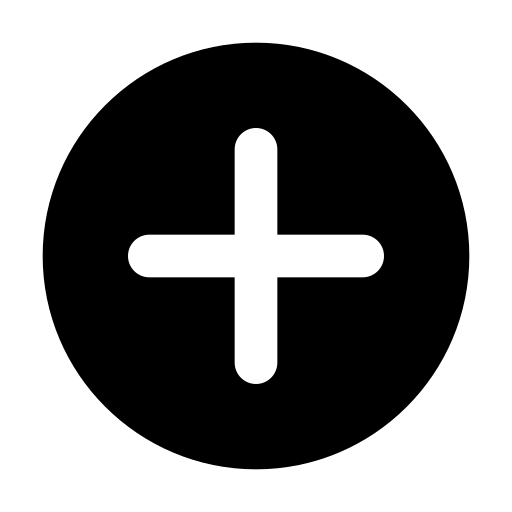
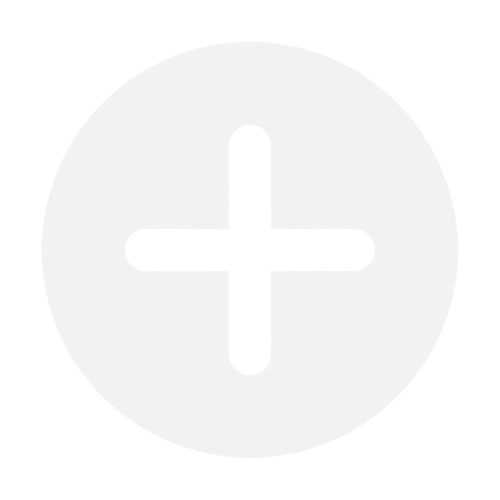
Chnaged theyellow design to black

diff --git a/app/static/css/index.css b/app/static/css/index.css
@@ -16,8 +16,8 @@ header{
     position: sticky;
     z-index: 10;
     top: 0;
-    background-color: #ffd903;
-    color: white;
+    background-color: #141414;
+    color: #ababab;
     box-shadow: 0 6px 12px rgba(0, 0, 0, 0.1);
     height: auto;
     width: 100%;
@@ -26,7 +26,7 @@ header{
 
 /* Hero section */
 .hero {
-    height: 200px;
+    height: 20rem;
     display: flex;
     flex-direction: row;
     align-items: center;
@@ -35,7 +35,7 @@ header{
     padding: 35px 0; 
     margin-bottom: 30px;
     margin-top: 30px;
-    background-color: #3f3f3f;
+    background-color: #141414;
     font-family: 'Gill Sans', 'Gill Sans MT', Calibri, 'Trebuchet MS', sans-serif;
     overflow: hidden; /* Prevent overflow of child elements */
 }
@@ -69,8 +69,8 @@ header{
 
 
 body {
-    background-color: white;
-    color: #3f3f3f;
+    background-color: #141414;
+    color: #ababab;
     line-height: 1.6;
     margin: 0;
     display: flex;
@@ -98,8 +98,8 @@ main {
 }
 
 footer {
-    background-color: #ffd903;
-    color: #3f3f3f;
+    background-color: #141414;
+    color: #ababab;
     padding: 1rem 0;
     text-align: center;
     margin-top: 2rem;
@@ -108,12 +108,12 @@ footer {
 }
 
 footer nav {
-    color: #3f3f3f;
-    background-color: #ffd903;
+    color: #ababab;
+    background-color: #141414;
 }
 
 footer nav a:visited{
-    color: #3f3f3f;
+    color: #ababab;
 }
 
 footer nav a{
@@ -125,7 +125,7 @@ footer nav a{
 
 /* Events section styling */
 #events {
-    border: solid 1px red;
+    border: solid 0px red;
     display: grid;
     place-items: center;
     grid-template-columns: repeat(4, minmax(200px, 1fr));
@@ -135,8 +135,9 @@ footer nav a{
 
 .event-card {
     display: flex;
+    color: white;
     flex-direction: column;
-    background-color: white;
+    background-color: #141414;
     padding: 0px;
     border-radius: 10px;
     cursor: pointer;
@@ -147,7 +148,7 @@ footer nav a{
 }
 
 .event-card:hover {
-    background-color: #e0f7fa;
+    background-color: #141414;
     transform: translateY(-5px);
     box-shadow: 0 6px 12px rgba(0, 0, 0, 0.2);
 }
@@ -175,7 +176,7 @@ footer nav a{
 
 .event-card .event-date {
     padding: 0.0;
-    border-top: 1px solid #ddd;
+    border-top: 1px solid #ababab;
 }
 
 .event-card .event-location {

diff --git a/app/static/css/navigation.css b/app/static/css/navigation.css
@@ -14,7 +14,7 @@
     position: sticky;
     z-index: 3;
     box-shadow: 0 6px 12px rgba(0, 0, 0, 0.1);
-    background-color: #ffd903;
+    background-color: #141414;
 }
 
 .group_nav {
@@ -43,7 +43,7 @@
     padding: 0px 20px 5px 10px;
     font-size: 1.5rem;
     font-family: 'Playwrite';
-    color:#3f3f3f;
+    color:#ffd903;
     text-decoration: none;
     font-weight: bold;
 }
@@ -57,8 +57,8 @@
     flex-direction: column;
     align-items: center;
     z-index: 55;
-    background-color: #ffd903;
-    color: #3f3f3f;
+    background-color: #141414;
+    color: white;
 }
 
 .home {
@@ -67,7 +67,7 @@
     flex-direction: column;
     align-items: center;
     text-decoration: none;
-    color:#3f3f3f;  
+    color:rgba(255, 255, 255, 0.874);  
 }
 
 .home img {
@@ -86,7 +86,7 @@
     flex-direction: column;
     align-items: center;
     text-decoration: none;
-    color:#3f3f3f;
+    color:rgba(255, 255, 255, 0.874);
 }
 
 .post_event img {
@@ -103,7 +103,7 @@
     flex-direction: column;
     align-items: center;
     text-decoration: none;
-    color:#3f3f3f;
+    color:rgba(255, 255, 255, 0.874);
 }
 
 .account img {
@@ -120,7 +120,7 @@
     flex-direction: column;
     align-items: center;
     text-decoration: none;
-    color:#3f3f3f;
+    color:rgba(255, 255, 255, 0.874);
 }
 
 .contact img {

diff --git a/app/templates/events/event.html b/app/templates/events/event.html
@@ -5,8 +5,8 @@
     <meta name="viewport" content="width=device-width, initial-scale=1.0">
     <title>{{ event.title }}</title>
     <link rel="icon" href="../static/images/logo.png"/>
-    <link rel="stylesheet" href="../static/css/event.css">
-    <link rel="stylesheet" href="../static/css/navbar.css">
+    <link rel="stylesheet" href="../../static/css/event.css">
+    <link rel="stylesheet" href="../../static/css/navigation.css">
 </head>
 <body>
     <header>
